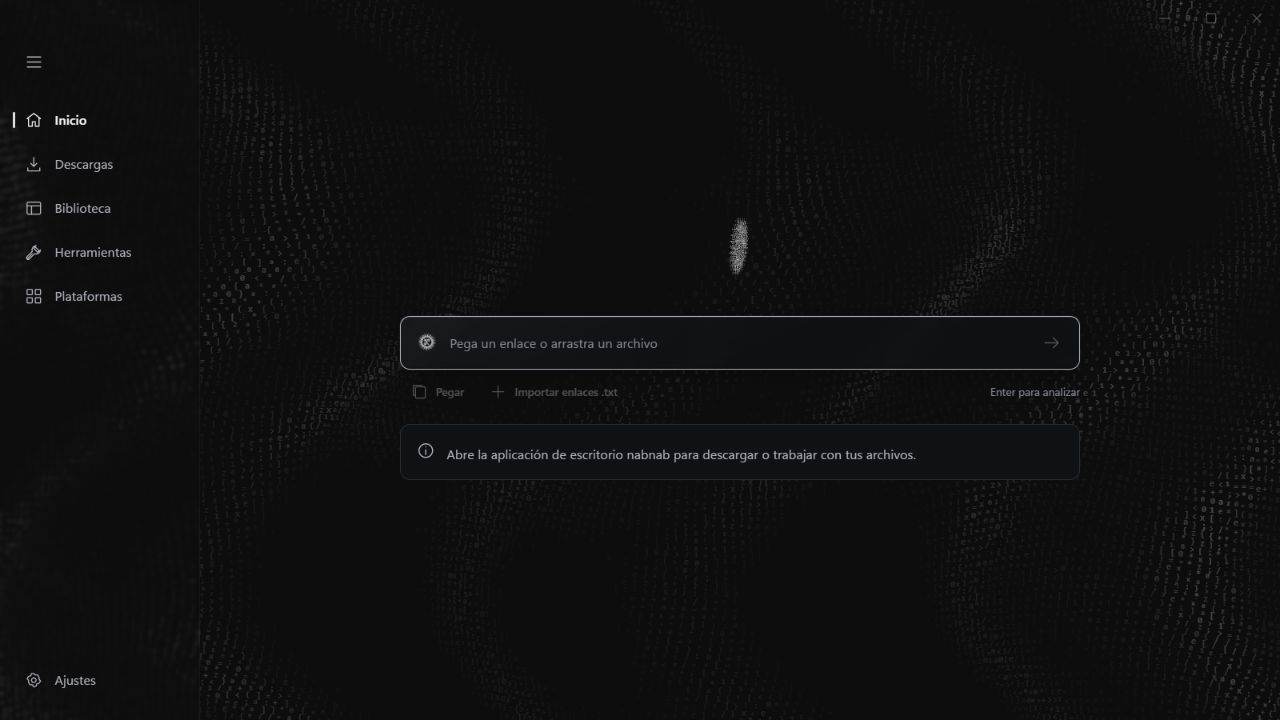
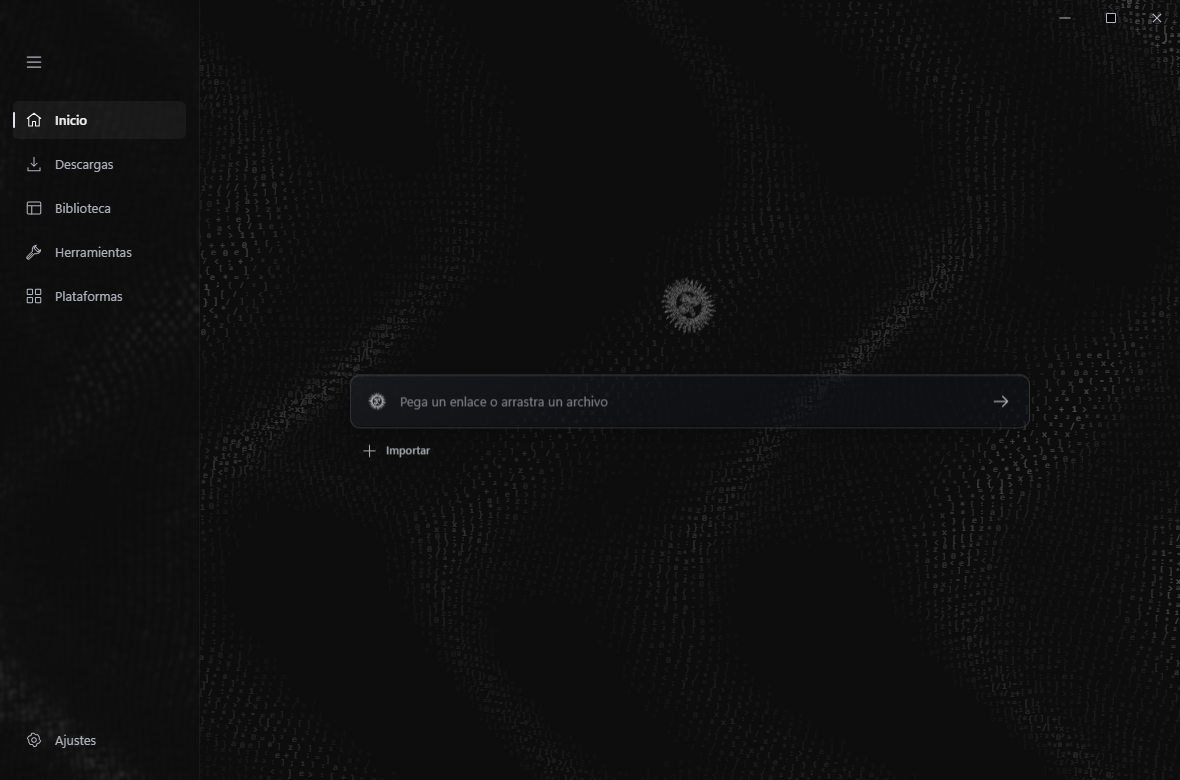
Document 0.2.0 release

diff --git a/docs/releases/0.2.0.md b/docs/releases/0.2.0.md
@@ -1,0 +1,35 @@
+# nabnab 0.2.0
+
+More sources, local tools and a refined interface, with downloads and results kept in the common queue and library.
+
+## Changes
+
+- A full-height, more transparent sidebar and a brighter character field with finer moving detail. Ambient color waves run every 25 seconds; ten emblem activations toggle overlapping continuous waves. Reduced-motion and reduced-transparency preferences remain available. Home keeps a single Import action, and every specialized platform view has a route back to the catalog.
+- A platform catalog with attachment selection, optional gallery-dl, gallery following, local HTML galleries and contact sheets. Pasted social posts open attachment selection and retain an explicit video-only route.
+- Additional video/audio providers, podcast RSS subscriptions with OPML/M3U, source exports, federated attachments, and bounded YouTube/Twitch live-recording support.
+- Optional aria2 for advanced HTTP transfers and BitTorrent file selection. P2P requires explicit activation and stops seeding after download by default.
+- Optional TDLib 1.8.69, protected account configuration and authorized Telegram attachment selection. The native package has a fixed source, size and SHA-256; installation does not authorize an account.
+- Separate course adapters and local study organization, with lesson progress, materials and notes.
+- Multilingual local transcription, caption editing/synchronization, GIF/WebP, image conversion, clip joining, audio replacement, subtitle burning, audio preview, palette export, and optional PDF/EPUB tools.
+- The Chrome/Edge extension can detect candidate media on the explicitly selected page and send it through the paired desktop bridge.
+
+## Download and upgrade
+
+Use `nabnab_0.2.0_x64-setup.exe` for Windows x64. Installation is per user and requires WebView2. The installer is unsigned. Updating from ytnabber retains the existing installation folder and application data. Optional engines and speech models download only when requested.
+
+`nabnab-browser-extension_0.2.0.zip` contains the Chrome/Edge extension. Extract it and follow the [pairing and installation instructions](https://github.com/Hakaelll/nabnab/blob/v0.2.0/docs/BROWSER.md). It is not installed automatically.
+
[1 lines of base64/hex data omitted]
+
+## Verification and limits
+
+- Production build and engine manifest/integrity verification passed. The installer contains yt-dlp 2026.10.26, Deno 2.9.8 and FFmpeg 9.0.2 with WebP and libass support.
+- 27 JavaScript tests and 224 native tests passed. Another 25 native integrations are conditional and ignored by default; this does not certify external services.
+- Browser fixture checks cover 900, 1180 and 1280 pixel windows, 125%/150% scaling, keyboard focus, reduced motion/transparency and a 1000-item library. A focused regression reproduced the missing return control before the fix and passed afterward across the catalog, specialized modules and sidebar navigation. The simplified Import row was checked in the same run.
+- Real synthetic-file checks exercised FFmpeg tools, static/animated WebP, subtitle burning, MuPDF, gallery exports, media composition, palettes, audio preview and aria2 HTTP transfer.
+- Native tests installed and disabled TDLib without authorizing an account, loaded its 1.8.69 schema locally, and rejected a tampered package. A Spanish synthetic speech fixture passed actual Whisper transcription, queue publication and library search.
+- A real per-user upgrade from ytnabber 0.1.1 to nabnab 0.2.0 preserved the application data file byte-for-byte during installation. The installed executable matches the installer payload, and the installed application opened with a responding native window. No interface automation was used for this launch check.
+
+External accounts, private course materials and real live-stream capture still require authorized live validation. Extractor support does not guarantee access to every operation or item. No DRM bypass, messaging, automatic account enrollment or access-restriction workaround is included.
+
+The executable was built from code commit `4ac74f74708def3495c7c9ce6281a5719135e968`. The release preparation after that code commit only updates documentation. See the [source and capability matrix](https://github.com/Hakaelll/nabnab/blob/v0.2.0/docs/EXPANSION.md), [transcription evidence](https://github.com/Hakaelll/nabnab/blob/v0.2.0/docs/TRANSCRIPTION.md) and [third-party notices](https://github.com/Hakaelll/nabnab/blob/v0.2.0/THIRD_PARTY_NOTICES.md).

diff --git a/README.md b/README.md
@@ -2,15 +2,17 @@
 
 Aplicación local para Windows para descargar, organizar y transformar multimedia. Tauri 2, Rust y TypeScript. Conserva el emblema y el campo de caracteres de YTNabber.
 
-Los cambios de `main` corresponden a 0.2.0. El instalador nuevo se genera al compilar; este trabajo no publica una release automáticamente.
+[Descargar nabnab 0.2.0 para Windows x64](https://github.com/Hakaelll/nabnab/releases/tag/v0.2.0). La actualización conserva la carpeta y los datos de la instalación anterior de ytnabber. WebView2 es necesario; el instalador no tiene firma digital.
 
 La ampliación de [productividad local](docs/PRODUCTIVITY.md) añade preparación de lotes, ajustes y reglas, programación, fuentes de YouTube, colecciones inteligentes, subtítulos con búsqueda temporal y una paleta Ctrl+K. La guía incluye capturas y el alcance de las comprobaciones.
+
+La [ampliación de fuentes y herramientas](docs/EXPANSION.md) añade selección de galerías y adjuntos, RSS, archivos avanzados y BitTorrent, Telegram opcional, cursos y herramientas locales de documentos, imágenes, vídeo, audio y transcripción. La guía distingue capacidades implementadas, componentes necesarios y recorridos pendientes con cuentas autorizadas.
 
 ## Interfaz
 
 El acabado glass integra la navegación con el campo de caracteres original. Incluye preferencias para reducir movimiento y transparencias. Estas capturas muestran la interfaz con datos de prueba; los recorridos nativos y de plataformas se registran por separado.
 
-![Inicio de nabnab](docs/nabnab-after.png)
+![Inicio de nabnab](docs/interface-monochrome.png)
 
 ![Previsualización y opciones](docs/nabnab-preview.png)
 
